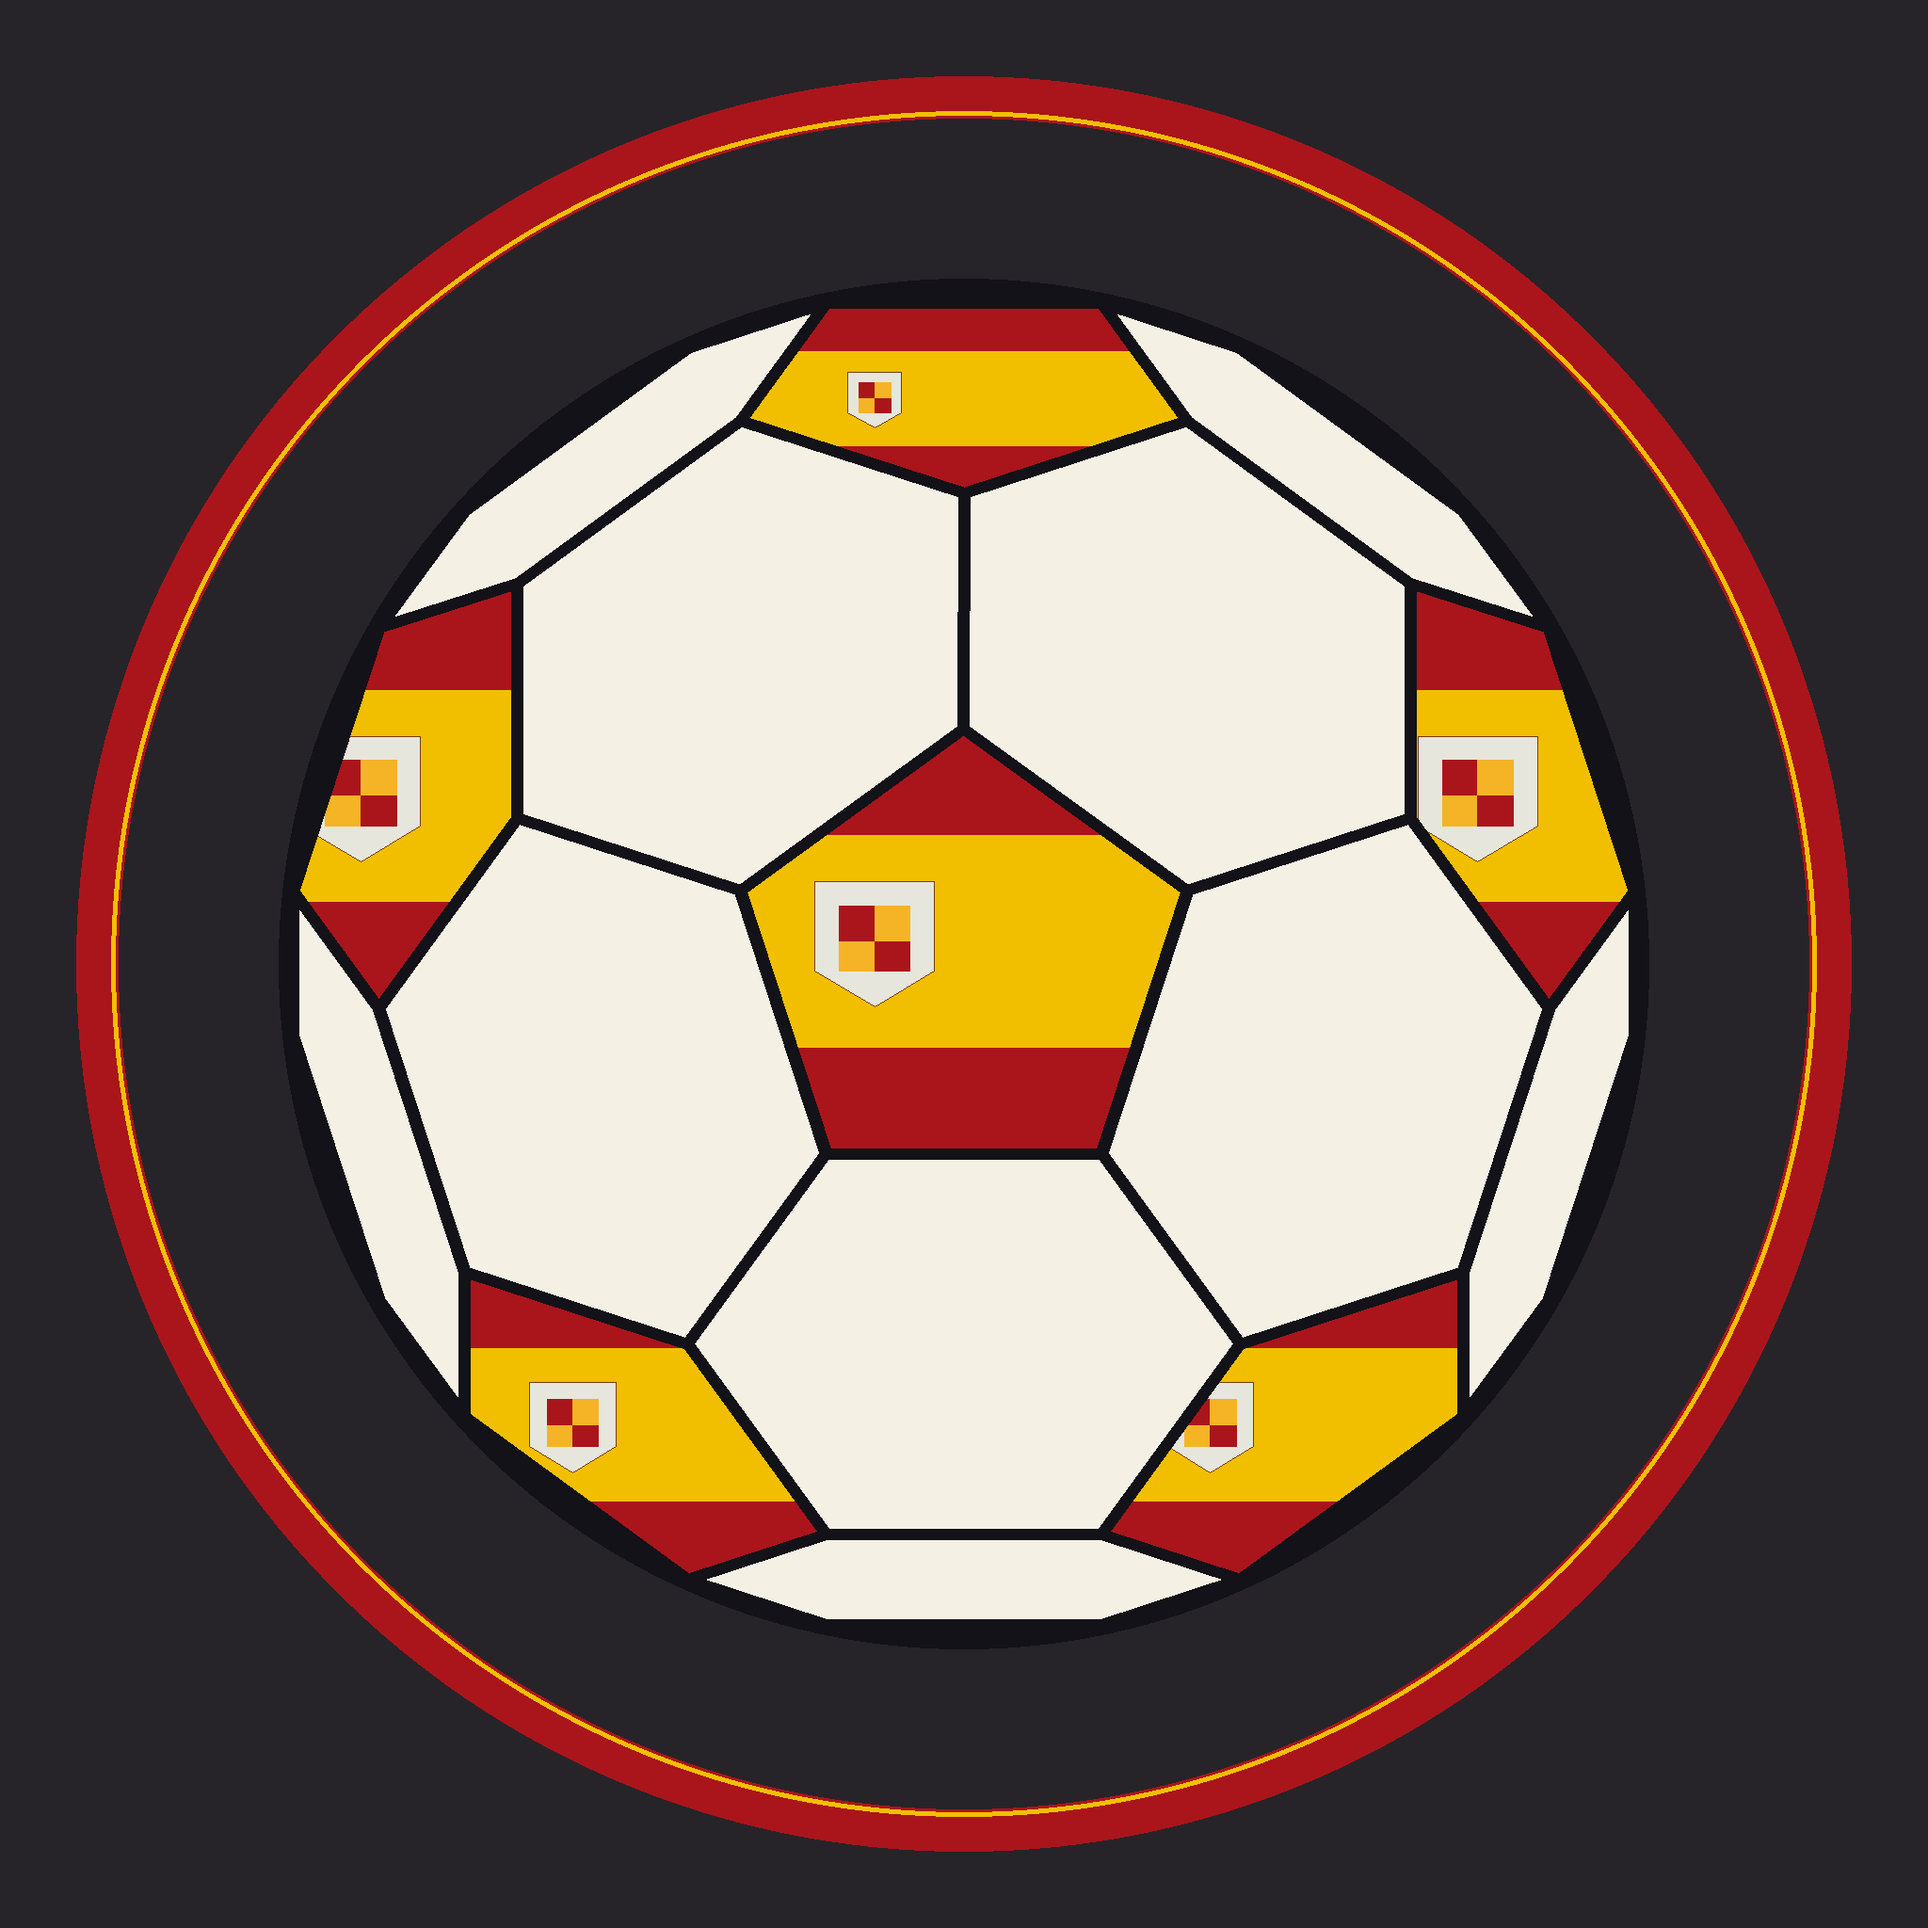
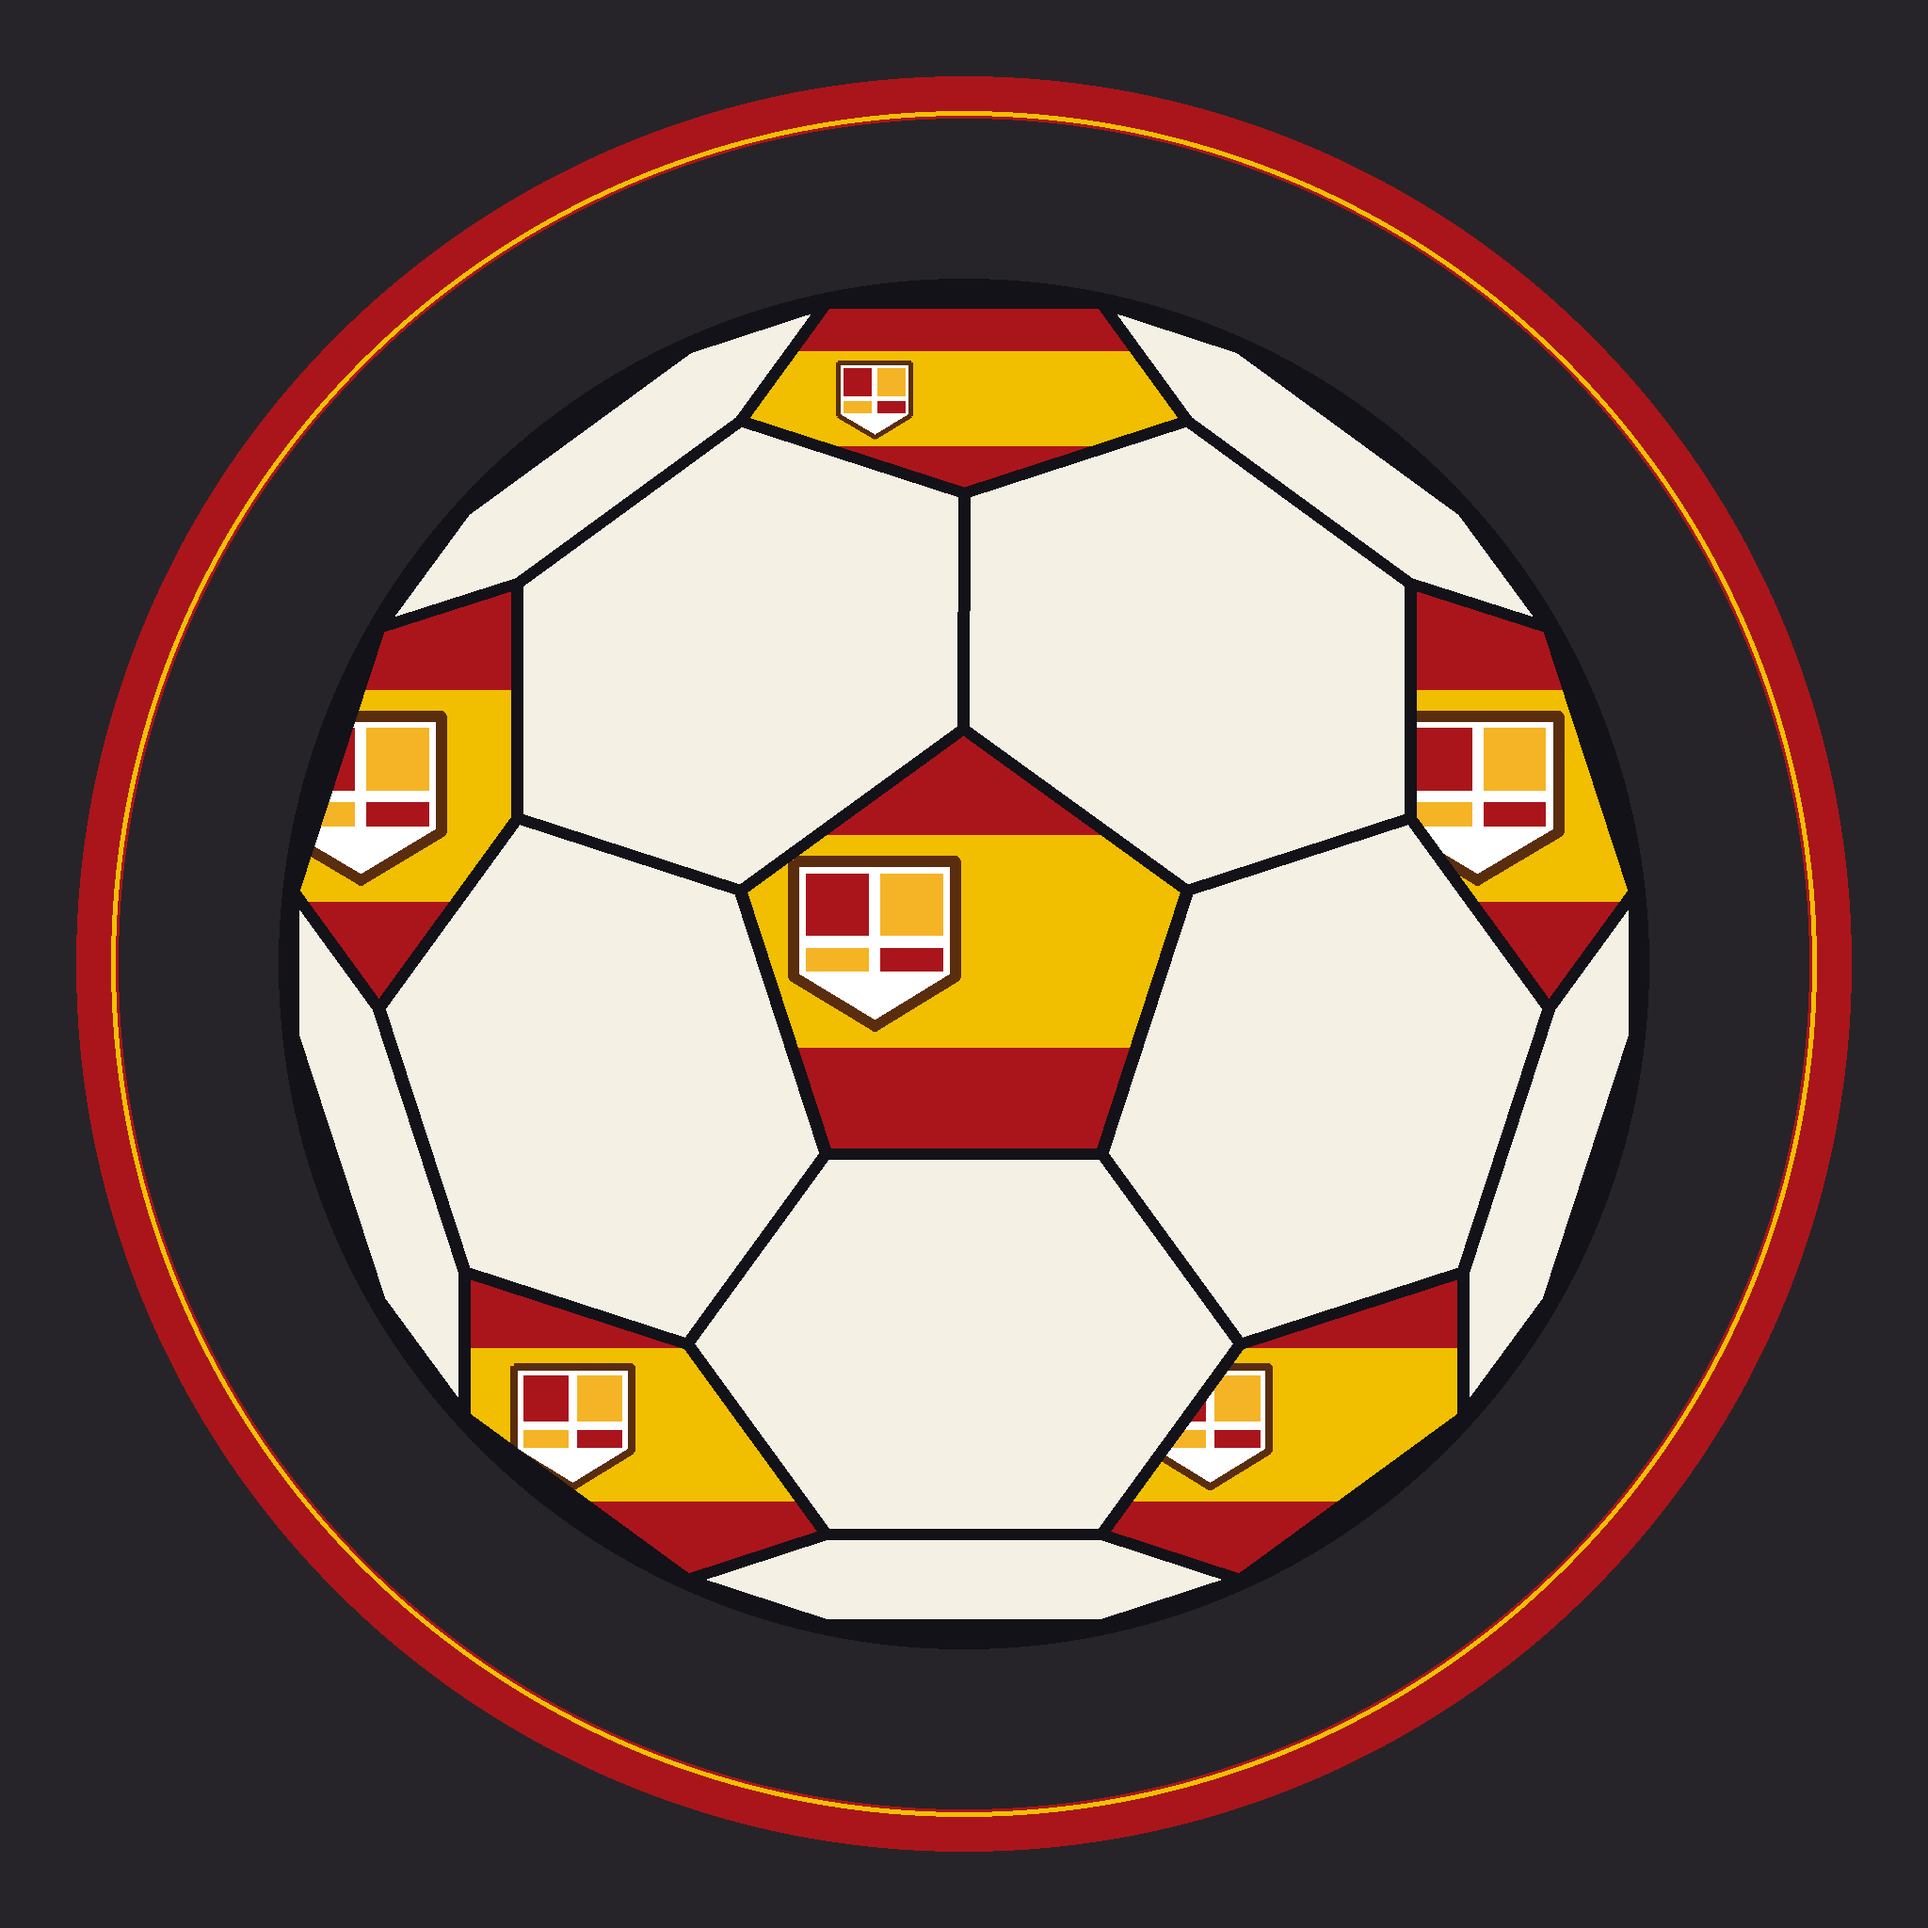
fix: écu espagnol agrandi et simplifié — reproductible à l'identique
L'écu trop petit/détaillé poussait FLUX à improviser un blason différent
par pentagone. Quartiers rouge/or francs, contour épais, 0.19h.

https://claude.ai/code/session_011hU6yuR4dGRtyXL7mZFdwg

diff --git a/scripts/render_telstar_seed.py b/scripts/render_telstar_seed.py
@@ -221,16 +221,21 @@ def flag_spain(td, x0, y0, x1, y1):
     td.rectangle([x0, y0, x1, y0 + h / 4], fill=red)
     td.rectangle([x0, y0 + h / 4, x1, y1 - h / 4], fill=gold)
     td.rectangle([x0, y1 - h / 4, x1, y1], fill=red)
-    # écu simplifié décalé vers la gauche (côté mât)
+    # écu décalé côté mât — GROS et simple pour rester identique d'un
+    # pentagone à l'autre au rendu (quartiers rouge/or francs, contour épais)
     ex, ey = x0 + (x1 - x0) * 0.30, (y0 + y1) / 2
-    s = h * 0.14
-    td.polygon([(ex - s, ey - s), (ex + s, ey - s), (ex + s, ey + s * 0.5),
-                (ex, ey + s * 1.1), (ex - s, ey + s * 0.5)],
-               fill=(230, 230, 220), outline=(120, 60, 20))
-    td.rectangle([ex - s * 0.6, ey - s * 0.6, ex, ey], fill=red)
-    td.rectangle([ex, ey - s * 0.6, ex + s * 0.6, ey], fill=(244, 180, 38))
-    td.rectangle([ex - s * 0.6, ey, ex, ey + s * 0.5], fill=(244, 180, 38))
-    td.rectangle([ex, ey, ex + s * 0.6, ey + s * 0.5], fill=red)
+    s = h * 0.19
+    dark = (90, 45, 15)
+    shield = [(ex - s, ey - s), (ex + s, ey - s), (ex + s, ey + s * 0.45),
+              (ex, ey + s * 1.05), (ex - s, ey + s * 0.45)]
+    td.polygon(shield, fill=(255, 255, 255), outline=dark)
+    lw = max(3, int(s * 0.14))
+    td.line(shield + [shield[0]], fill=dark, width=lw, joint="curve")
+    m = s * 0.16
+    td.rectangle([ex - s + m, ey - s + m, ex - m / 2, ey - m / 2], fill=red)
+    td.rectangle([ex + m / 2, ey - s + m, ex + s - m, ey - m / 2], fill=(244, 180, 38))
+    td.rectangle([ex - s + m, ey + m / 2, ex - m / 2, ey + s * 0.45 - m / 2], fill=(244, 180, 38))
+    td.rectangle([ex + m / 2, ey + m / 2, ex + s - m, ey + s * 0.45 - m / 2], fill=red)
 
 
 def flag_netherlands(td, x0, y0, x1, y1):
